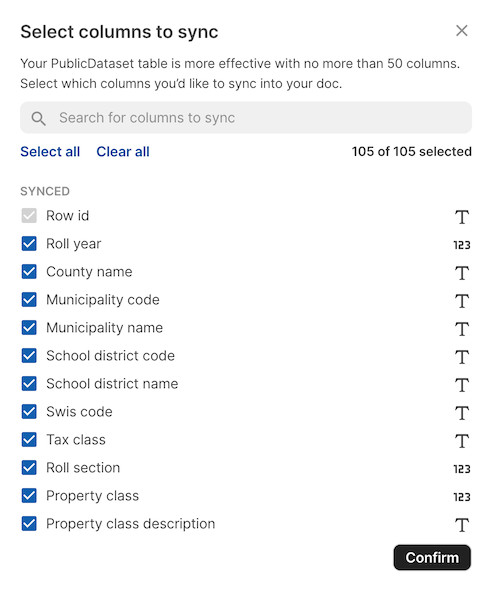
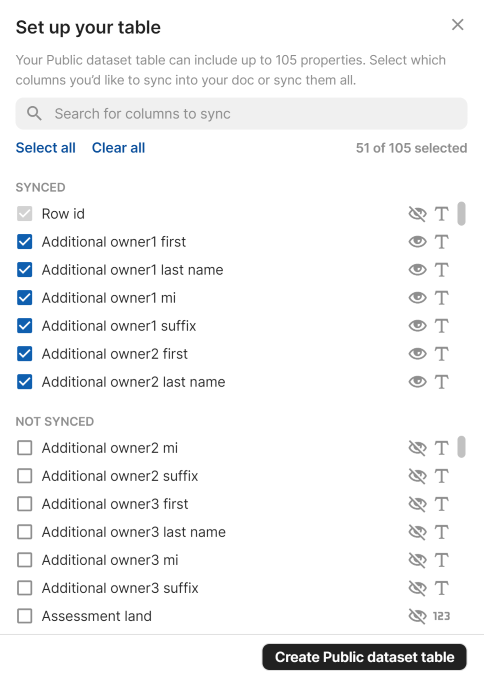
Update docs with new column picker UI

Changed region(s): [[0.031, 0.0304, 0.9298, 0.9122], [0.5269, 0.2128, 0.9917, 1.0], [0.9298, 0.0304, 0.9607, 0.0608]]

diff --git a/docs/guides/blocks/sync-tables/index.md b/docs/guides/blocks/sync-tables/index.md
@@ -248,9 +248,9 @@ It's recommended that you reduce or disable [HTTP caching][fetcher_caching] of t
 
 ## Columns selection
 
-Although only [featured columns][schemas_featured_columns] are shown in the table by default, all of the schema properties are synced and stored in the object chip in the first column of the sync table. These later can be expanded out into columns of their own or accessed formulaically.
+Although only [featured columns][schemas_featured_columns] are shown in the table by default, all of the schema properties are synced and stored in the table as their own columns. Additionally, the object chip in the first column of the sync table provides quick access to view and formulaically access the value of all properties.
 
-For very large schemas all of these unused properties can come with a performance cost however, so users have the option to choose the exact set of columns they want to sync. This can be done by clicking the **Choose columns** button in the sync table settings, and is launched automatically when creating the sync table with a very large schema.
+For very large schemas all of these unused properties can come with a performance cost however, so users have the option to choose the exact set of columns they want to sync. This can be done by clicking the **Sync more properties** button in the sync table settings, and is launched automatically when creating the sync table with a very large schema.
 
 <img src="../../../images/sync_table_select_columns.png" srcset="../../../images/sync_table_select_columns_2x.png 2x" class="screenshot" alt="Selecting columns of a sync table">
 
